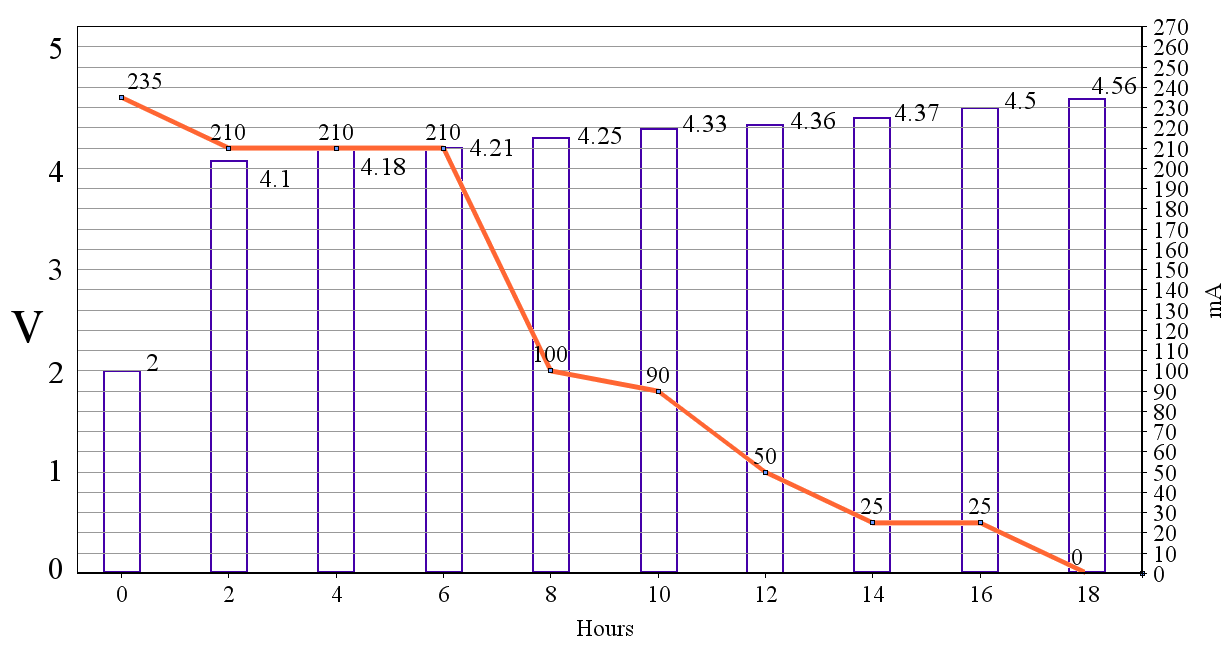
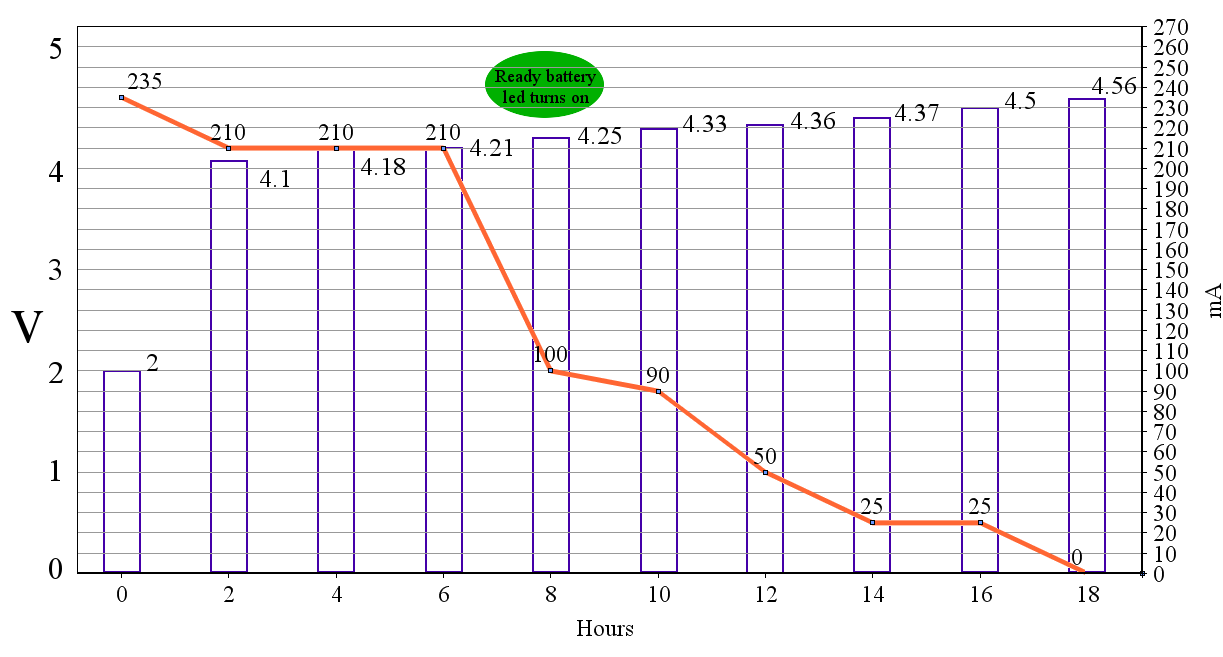
tests

Changed region(s): [[0.3729, 0.0609, 0.4971, 0.1826]]

diff --git a/Capitulos/06TestingAndResults.tex b/Capitulos/06TestingAndResults.tex
@@ -134,7 +134,7 @@ First scenario is conducted over 2.4 GHz band. This band posses 16 available cha
 %-------------------------------------------------------------------
 \label{cap6:sec:radioagility}
 %-------------------------------------------------------------------
-This test evaluates how long changes over the \ac{RI}s take to be done. Parameters to change are \ac{TX} power, operation channel and energy modes. This test was fully available at the firmware. Table *********** ilustrates the results.
+This test evaluates how long changes over the \ac{RI}s take to be done. Parameters to change are \ac{TX} power, operation channel and energy modes. This test was fully available at the firmware. Table \ref{tab:cap6:radioagility} ilustrates the results.
 
 \begin{table}[h]
 \centering
@@ -210,8 +210,7 @@ Unicast & 250 (100 \%) & 180000 & 8.7 & 20.669 \\ \hline \hline
 \end{table}
 
 
-Conc.**********************
-
+It is important to observe how there are not packet losses at unicast mode, and for 38400 bps there are not lost packets either when broadcasting. The reduced effective rate might be due to prototyping bad conditions, such as used corrections made with wires and raugh connections that should be better at consecutive mountings. \ac{RF} devices are very sensitive to these imperfections. On the other hand, \ac{TX} power and antenna conditions must be review, since these suposse a change with respect to previous tests.
 
 Table \ref{cap6:tab:effectiverate2.4} ilustrates the results for MRF24J40 transceiver as 2.4 GHz \ac{RI} using a P2P protocol. 
 
@@ -233,7 +232,9 @@ Unicast & 140 (56 \%) & 100800 & 3.54 & 28.474 \\ \hline \hline
          \label{cap6:tab:effectiverate2.4}}
 \end{table} 
 
-Conc. ******************
+A worrying issue, already described in \cite{juanpfc}, is the packet loss even transmitting at unicast mode. The reason for this fact still remains unknown but there are some possible explanations. Most feasible option at the current moment is that \ac{ACK} packets are misinterpreted by the receiver and it considers a single \ac{ACK} response for more than one packet. This is possible due to the unsequenced character of \ac{ACK} packets at MiWi protocol. 
+
+In order to solve this issue, Jara, G. presents in \cite{guillepfc} a flow control mechanism at MiWi \ac{MAC} layer that apparently avoid packet loss at unicast mode.
 
 %-------------------------------------------------------------------
 \section{chargerSHIELD performance test}
@@ -242,13 +243,12 @@ Conc. ******************
 %-------------------------------------------------------------------
 As it was mantioned, small checkings were made during the mounting process. Nevertheless, this test shows the chargerSHIELD performance test facing a battery full charge operation.
 
+When testing the chargerSHIELD proper operation, few charging sequences were carried out. Taking measures every 2 hours of battery voltage conditions and the current flowing through it. Figure \ref{fig:cap6:chargergraph} shows the average results.
+
 \figura{Bitmap/Capitulo6/charger}{width=\textwidth}{fig:cap6:chargergraph}%
 {Batteries and parameters evolution during charging process at chargerSHIELD.}
 
-%batteries
-%charge
-%c
-
+Charging time for the defined batteries can be estimated around 12-16 hours. The ready battery led notifies the battery is ready when approximately 60\% of the total charge is available. It might be extrange to observe so high voltage values at the batteries when they are supposed to provide 3.6 V, nevertheless, it is a normal behaviour. The charger properly switchs off the charging current when voltage at the battery reveals a complete charge.
 
 
 % Variable local para emacs, para  que encuentre el fichero maestro de
